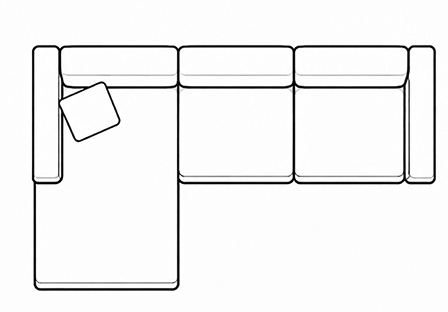
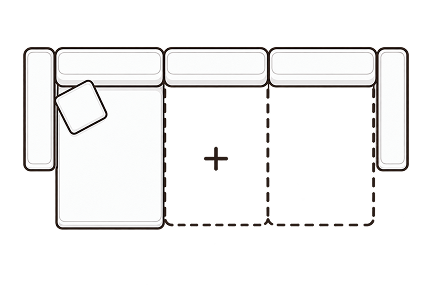
Refactor code structure and remove redundant changes

Changed region(s): [[0.0301, 0.125, 0.9931, 0.9375]]

diff --git a/src/App.jsx b/src/App.jsx
@@ -7,17 +7,17 @@ export default function App() {
     layout: true,
     fabricMaterial: true,
     fabricColor: true,
-    legStyle: true,
     woodFinish: true
   });
 
   const [selectedConfig, setSelectedConfig] = useState({
-    layout: 'Straight',
+    layout: '2 Seater',
     fabricMaterial: 'Linen',
-    fabricColor: 'Warm Taupe',
-    legStyle: 'Tapered',
+    fabricColor: 'Linen_Warm Taupe',
     woodFinish: 'Natural Walnut'
   });
+
+  const [activeLayoutCategory, setActiveLayoutCategory] = useState('Straight');
 
   const layoutRef = useRef(null);
   const fabricRef = useRef(null);
@@ -40,27 +40,163 @@ export default function App() {
     layout: 'layout', 
     fabricMaterial: 'fabric material',
     fabricColor: 'fabric color',
-    legStyle: 'leg style',
     woodFinish: 'wood finish'
   };
+
+  const layoutCategories = [
+    { 
+      name: 'Straight', image: '/Straight.png',
+      options: ['2 Seater', '3 Seater', '4 Seater', 'Loveseat']
+    },
+    { 
+      name: 'L- Shape', image: '/L- Shape left.png',
+      options: ['Left Chaise', 'Right Chaise', 'L- Shape left', 'L- Shape right', 'Double Chaise']
+    },
+    { 
+      name: 'U Shape', image: '/U Shape.png', 
+      options: ['U- Shape', 'U Ottoman'] 
+    },
+    { 
+      name: 'Ottoman', image: '/Ottoman.png', 
+      options: ['Sofa + Ottoman', 'Centre Ottoman', 'Left Ottoman', 'Right Ottoman', 'U Ottoman'] 
+    },
+    // { 
+    //   name: 'Corner', image: '/Corner.png', 
+    //   options: ['Angle + Corner', 'Corner + Armless'] 
+    // },
+    { 
+      name: 'Special', image: '/Special.png', 
+      options: ['Open end left', 'Open end right', 'Modular 3 piece', 'Modular 4 piece', 'Conversational', 'Curved'] 
+    }
+  ];
 
   const sendConfiguration = (configToSend) => {
     const iframe = document.getElementById('ikarus-configurator');
     if (iframe && iframe.contentWindow) {
       const formattedConfig = {};
       Object.keys(configToSend).forEach(key => {
-        formattedConfig[URL_KEYS[key]] = configToSend[key];
+        if (URL_KEYS[key]) {
+          if (key === 'layout') {
+            formattedConfig[URL_KEYS[key]] = configToSend[key];
+          } else {
+            formattedConfig[URL_KEYS[key]] = configToSend[key];
+          }
+        }
       });
+
+      console.log('--- DEBUG: Sending Config to Ikarus ---');
+      console.log('Raw State:', configToSend);
+      console.log('Formatted Payload being sent:', formattedConfig);
 
       iframe.contentWindow.postMessage({
         type: 'IKARUS_CONFIG',
         config: formattedConfig
       }, '*');
+    } else {
+      console.warn('--- DEBUG: Iframe not found or not ready ---');
     }
   };
 
+  const fabricColorOptions = {
+    default: [
+      { name: 'Warm Taupe', image: '/Warm Taupe.png' },
+      { name: 'Mocha Brown', image: '/Mocha Brown.png' },
+      { name: 'Charcoal Brown', image: '/Charcoal Brown.png' },
+      { name: 'Olive Taupe', image: '/Olive Taupe.png' },
+      { name: 'Forest Olive', image: '/Forest Olive.png' },
+      { name: 'Graphite', image: '/Graphite.png' },
+    ],
+    Leather: [
+      { name: 'Leather_Rust Terracota', image: 'icons/Leather_Rust Terracotta.webp' },
+      { name: 'Leather_Saddle Brown', image: 'icons/Leather_Mocha Brown.webp' },
+      { name: 'Leather_Sage Green', image: 'icons/Leather_Sage Green.webp' },
+      { name: 'Leather_Sand Beige', image: 'icons/Leather_Sand Biege.webp' },
+      { name: 'Leather_Sapphire Mist', image: 'icons/Leather_Deep Blue.webp' },
+      { name: 'Leather_Warm Taupe', image: 'icons/Leather_Warm Taupe.webp' },
+    ],
+    Velvet: [
+      { name: 'Velvet_Rust Terracota', image: 'icons/Velvet_Rust Terracotta.webp' },
+      { name: 'Velvet_Warm Taupe', image: 'icons/Velvet_Warm Taupe.webp' },
+      { name: 'Velvet_Saddle Brown', image: 'icons/Velvet_Mocha Brown.webp' },
+      { name: 'Velvet_Sage Green', image: 'icons/Velvet_Sage Green.webp' },
+      { name: 'Velvet_Sand Beige', image: 'icons/Velvet_Sand Biege.webp' },
+      { name: 'Velvet_Sapphire Mist', image: 'icons/Velvet_Deep Blue.webp' },
+    ],
+    Linen: [
+      { name: 'Linen_Rust Terracota', image: 'icons/Linen_Rust Terracotta.webp' },
+      { name: 'Linen_Warm Taupe', image: 'icons/Linen_Warm Taupe.webp' },
+      { name: 'Linen_Saddle Brown', image: 'icons/Linen_Mocha Brown.webp' },
+      { name: 'Linen_Sage Green', image: 'icons/Linen_Sage Green.webp' },
+      { name: 'Linen_Sand Beige', image: 'icons/Linen_Sand Biege.webp' },
+      { name: 'Linen_Sapphire Mist', image: 'icons/Linen_Deep Blue.webp' },
+    ],
+    Boucle: [
+      { name: 'Boucle_Rust Terracota', image: 'icons/Boucle_Rust Terracotta.webp' },
+      { name: 'Boucle_Warm Taupe', image: 'icons/Boucle_Warm Taupe.webp' },
+      { name: 'Boucle_Saddle Brown', image: 'icons/Boucle_Mocha Brown.webp' },
+      { name: 'Boucle_Sage Green', image: 'icons/Boucle_Sage Green.webp' },
+      { name: 'Boucle_Sand Beige', image: 'icons/Boucle_Sand Biege.webp' },
+      { name: 'Boucle_Sapphire Mist', image: 'icons/Boucle_Deep Blue.webp' },
+    ],
+    Suede: [
+      { name: 'Suede_Rust Terracota', image: '/icons/Suede_Rust Terracotta.webp' },
+      { name: 'Suede_Warm Taupe', image: 'icons/Suede_Warm Taupe.webp' },
+      { name: 'Suede_Saddle Brown', image: 'icons/Suede_Mocha Brown.webp' },
+      { name: 'Suede_Sage Green', image: 'icons/Suede_Sage Green.webp' },
+      { name: 'Suede_Sand Beige', image: 'icons/Suede_Sand Biege.webp' },
+      { name: 'Suede_Sapphire Mist', image: 'icons/Suede_Deep Blue.webp' },
+    ],
+    Corduroy: [
+      { name: 'Corduroy_Rust Terracota', image: 'icons/Corduroy_Rust Terracotta.webp' },
+      { name: 'Corduroy_Warm Taupe', image: 'icons/Corduroy_Warm Taupe.webp' },
+      { name: 'Corduroy_Saddle Brown', image: 'icons/Corduroy_Mocha Brown.webp' },
+      { name: 'Corduroy_Sage Green', image: 'icons/Corduroy_Sage Green.webp' },
+      { name: 'Corduroy_Sand Beige', image: 'icons/Corduroy_Sand Biege.webp' },
+      { name: 'Corduroy_Sapphire Mist', image: 'icons/Corduroy_Deep Blue.webp' },
+    ]
+  };
+
+
+
+  const renderSubmenu = (categoryName) => {
+    const category = layoutCategories.find(c => c.name === categoryName);
+    if (!category) return null;
+    const index = layoutCategories.findIndex(c => c.name === categoryName);
+    const col = index % 3;
+    let caretClass = '';
+    if (col === 0) caretClass = 'left-[16.6%]';
+    if (col === 1) caretClass = 'left-[50%]';
+    if (col === 2) caretClass = 'left-[83.3%]';
+
+    return (
+      <div className="mt-3 bg-white p-3 rounded-xl shadow-sm relative z-10 w-full animate-in fade-in slide-in-from-top-2">
+        <div className={`absolute -top-2 w-4 h-4 bg-white transform rotate-45 -translate-x-1/2 ${caretClass}`}></div>
+        <div className="relative z-10 grid grid-cols-2 gap-2">
+          {category.options.map((opt, i) => (
+            <button 
+              key={i}
+              onClick={() => handleOptionSelect('layout', opt)}
+              className={`py-2 px-3 text-[13px] rounded-lg transition-colors border-none ${selectedConfig.layout === opt ? 'bg-[#373737] text-white' : 'bg-gray-100 text-gray-700 hover:bg-gray-200'}`}
+            >
+              {opt}
+            </button>
+          ))}
+        </div>
+      </div>
+    );
+  };
+
+  const currentColors = fabricColorOptions[selectedConfig.fabricMaterial] || fabricColorOptions.default;
+
   const handleOptionSelect = (category, optionName) => {
     const newConfig = { ...selectedConfig, [category]: optionName };
+    
+    // Auto-select first color if material changes
+    if (category === 'fabricMaterial') {
+      const colors = fabricColorOptions[optionName] || fabricColorOptions.default;
+      newConfig.fabricColor = colors[0].name;
+    }
+
     setSelectedConfig(newConfig);
     sendConfiguration(newConfig);
   };
@@ -158,25 +294,54 @@ export default function App() {
               </div>
               
               {expandedSections.layout && (
-                <div className="grid grid-cols-3 gap-3">
-                  {[
-                    { name: 'Straight', image: '/Straight.png' },
-                    { name: 'L- Shape left', image: '/L- Shape left.png' },
-                    { name: 'U Shape', image: '/U Shape.png' },
-                    { name: 'Ottoman', image: '/Ottoman.png' },
-                    { name: 'Corner', image: '/Corner.png' },
-                    { name: 'Special', image: '/Special.png' },
-                  ].map((layout, i) => (
-                    <div 
-                      key={i} 
-                      onClick={() => handleOptionSelect('layout', layout.name)}
-                      className={`relative flex flex-col items-center justify-center p-2 rounded-xl border ${selectedConfig.layout === layout.name ? 'border-gray-800 ring-1 ring-gray-800' : 'border-gray-200 hover:border-gray-300'} bg-white transition-all h-[75px] lg:h-[105px] group shadow-sm hover:shadow-md cursor-pointer`}
-                    >
-                      <img src={layout.image} alt={layout.name} className="w-10 h-10 lg:w-16 lg:h-16 object-contain mb-1 transition-transform group-hover:scale-110" />
-                      <span className="text-[11px] lg:text-[12px] font-normal text-gray-700 text-center leading-none mt-1">{layout.name}</span>
-                      <div className="absolute inset-0 z-10"></div>
-                    </div>
-                  ))}
+                <div className="flex flex-col">
+                  {/* Top Row */}
+                  <div className="grid grid-cols-3 gap-3">
+                    {layoutCategories.slice(0, 3).map((category, i) => (
+                      <div 
+                        key={i} 
+                        onClick={() => {
+                          if (activeLayoutCategory === category.name) {
+                            setActiveLayoutCategory(null);
+                          } else {
+                            setActiveLayoutCategory(category.name);
+                            handleOptionSelect('layout', category.options[0]);
+                          }
+                        }}
+                        className={`relative flex flex-col items-center justify-center p-2 rounded-xl border ${activeLayoutCategory === category.name ? 'border-[#373737] bg-[#4a4a4a] text-white shadow-md' : 'border-gray-200 hover:border-gray-300 bg-white text-gray-700'} transition-all h-[75px] lg:h-[105px] group cursor-pointer`}
+                      >
+                        <img src={category.image} alt={category.name} className={`w-10 h-10 lg:w-16 lg:h-16 object-contain mb-1 transition-transform group-hover:scale-110`} />
+                        <span className={`text-[11px] lg:text-[12px] font-normal text-center leading-none mt-1`}>{category.name}</span>
+                      </div>
+                    ))}
+                  </div>
+
+                  {/* Submenu for top row */}
+                  {activeLayoutCategory && layoutCategories.slice(0, 3).find(c => c.name === activeLayoutCategory) && renderSubmenu(activeLayoutCategory)}
+
+                  {/* Bottom Row */}
+                  <div className="grid grid-cols-3 gap-3 mt-3">
+                    {layoutCategories.slice(3, 6).map((category, i) => (
+                      <div 
+                        key={i} 
+                        onClick={() => {
+                          if (activeLayoutCategory === category.name) {
+                            setActiveLayoutCategory(null);
+                          } else {
+                            setActiveLayoutCategory(category.name);
+                            handleOptionSelect('layout', category.options[0]);
+                          }
+                        }}
+                        className={`relative flex flex-col items-center justify-center p-2 rounded-xl border ${activeLayoutCategory === category.name ? 'border-[#373737] bg-[#4a4a4a] text-white shadow-md' : 'border-gray-200 hover:border-gray-300 bg-white text-gray-700'} transition-all h-[75px] lg:h-[105px] group cursor-pointer`}
+                      >
+                        <img src={category.image} alt={category.name} className={`w-10 h-10 lg:w-16 lg:h-16 object-contain mb-1 transition-transform group-hover:scale-110`} />
+                        <span className={`text-[11px] lg:text-[12px] font-normal text-center leading-none mt-1`}>{category.name}</span>
+                      </div>
+                    ))}
+                  </div>
+
+                  {/* Submenu for bottom row */}
+                  {activeLayoutCategory && layoutCategories.slice(3, 6).find(c => c.name === activeLayoutCategory) && renderSubmenu(activeLayoutCategory)}
                 </div>
               )}
             </div>
@@ -229,16 +394,9 @@ export default function App() {
                 <ChevronUp className={`w-5 h-5 transition-transform ${expandedSections.fabricColor ? '' : 'rotate-180'}`} />
               </div>
               
-              {expandedSections.fabricColor && (
+               {expandedSections.fabricColor && (
                 <div className="grid grid-cols-3 gap-3">
-                   {[
-                    { name: 'Warm Taupe', image: '/Warm Taupe.png' },
-                    { name: 'Mocha Brown', image: '/Mocha Brown.png' },
-                    { name: 'Charcoal Brown', image: '/Charcoal Brown.png' },
-                    { name: 'Olive Taupe', image: '/Olive Taupe.png' },
-                    { name: 'Forest Olive', image: '/Forest Olive.png' },
-                    { name: 'Graphite', image: '/Graphite.png' },
-                  ].map((color, i) => (
+                   {currentColors.map((color, i) => (
                     <div 
                       key={i} 
                       onClick={() => handleOptionSelect('fabricColor', color.name)}
@@ -246,7 +404,7 @@ export default function App() {
                     >
                       <img src={color.image} alt={color.name} className="absolute inset-0 w-full h-full object-cover transition-transform group-hover:scale-105" />
                       <div className="absolute inset-0 bg-black/20 group-hover:bg-black/10 transition-colors"></div>
-                      <span className="relative text-[11px] lg:text-[12px] font-normal text-white z-10 text-shadow-sm text-center leading-none px-1 drop-shadow-md pb-1">{color.name}</span>
+                      <span className="relative text-[11px] lg:text-[12px] font-normal text-white z-10 text-shadow-sm text-center leading-none px-1 drop-shadow-md pb-1">{color.name.replace(`${selectedConfig.fabricMaterial}_`, '')}</span>
                     </div>
                   ))}
                 </div>
@@ -261,38 +419,7 @@ export default function App() {
             <div>
               <h2 className="text-[18px] font-medium mb-4 text-gray-900">Leg & Finish</h2>
               <hr className="border-gray-200 my-6" />
-             <div 
-               className="flex justify-between items-center mb-4 cursor-pointer"
-               onClick={() => toggleSection('legStyle')}
-             >
-              <h3 className="text-[15px] font-normal uppercase">Leg Style</h3>
-              <ChevronUp className={`w-5 h-5 transition-transform ${expandedSections.legStyle ? '' : 'rotate-180'}`} />
-            </div>
-            
-            {expandedSections.legStyle && (
-              <div className="grid grid-cols-3 gap-3 mb-6">
-                {[
-                  { name: 'Tapered', image: '/Tapered.png' },
-                  { name: 'Round', image: '/Round.png' },
-                  { name: 'Slim', image: '/Slim.png' },
-                  { name: 'Block', image: '/Block.png' },
-                  { name: 'Turned', image: '/Turned.png' },
-                  { name: 'Low Profile', image: '/Low Profile.png' },
-                ].map((leg, i) => (
-                  <div 
-                    key={i} 
-                    onClick={() => handleOptionSelect('legStyle', leg.name)}
-                    className={`relative flex flex-col items-center justify-center p-2 rounded-xl border ${selectedConfig.legStyle === leg.name ? 'border-gray-800 ring-1 ring-gray-800' : 'border-gray-200 hover:border-gray-300'} bg-white transition-all h-[75px] lg:h-[105px] group shadow-sm hover:shadow-md cursor-pointer`}
-                  >
-                    <img src={leg.image} alt={leg.name} className="w-10 h-10 lg:w-16 lg:h-16 object-contain mb-1 transition-transform group-hover:scale-110" />
-                    <span className="text-[11px] lg:text-[12px] font-normal text-gray-700 text-center leading-none mt-1">{leg.name}</span>
-                    <div className="absolute inset-0 z-10"></div>
-                  </div>
-                ))}
-              </div>
-            )}
 
-            <hr className="border-gray-200 my-6" />
 
             <div 
               className="flex justify-between items-center mb-4 cursor-pointer"
@@ -344,7 +471,7 @@ export default function App() {
                 <span>Summary</span>
                 <ChevronUp className="w-4 h-4 lg:w-5 lg:h-5 text-gray-500" />
               </button>
-              <button className="flex-1 px-3 lg:px-4 py-2.5 lg:py-3.5 bg-[#222222] hover:bg-black text-[#ECE8DE] rounded-xl text-[15px] lg:text-[18px] font-medium leading-none shadow-sm transition-colors">
+              <button className="flex-1 px-3 lg:px-4 py-2.5 lg:py-3.5 bg-[#373737] hover:bg-black text-[#ECE8DE] rounded-xl text-[15px] lg:text-[18px] font-medium leading-none shadow-sm transition-colors">
                 Add to cart
               </button>
           </div>
